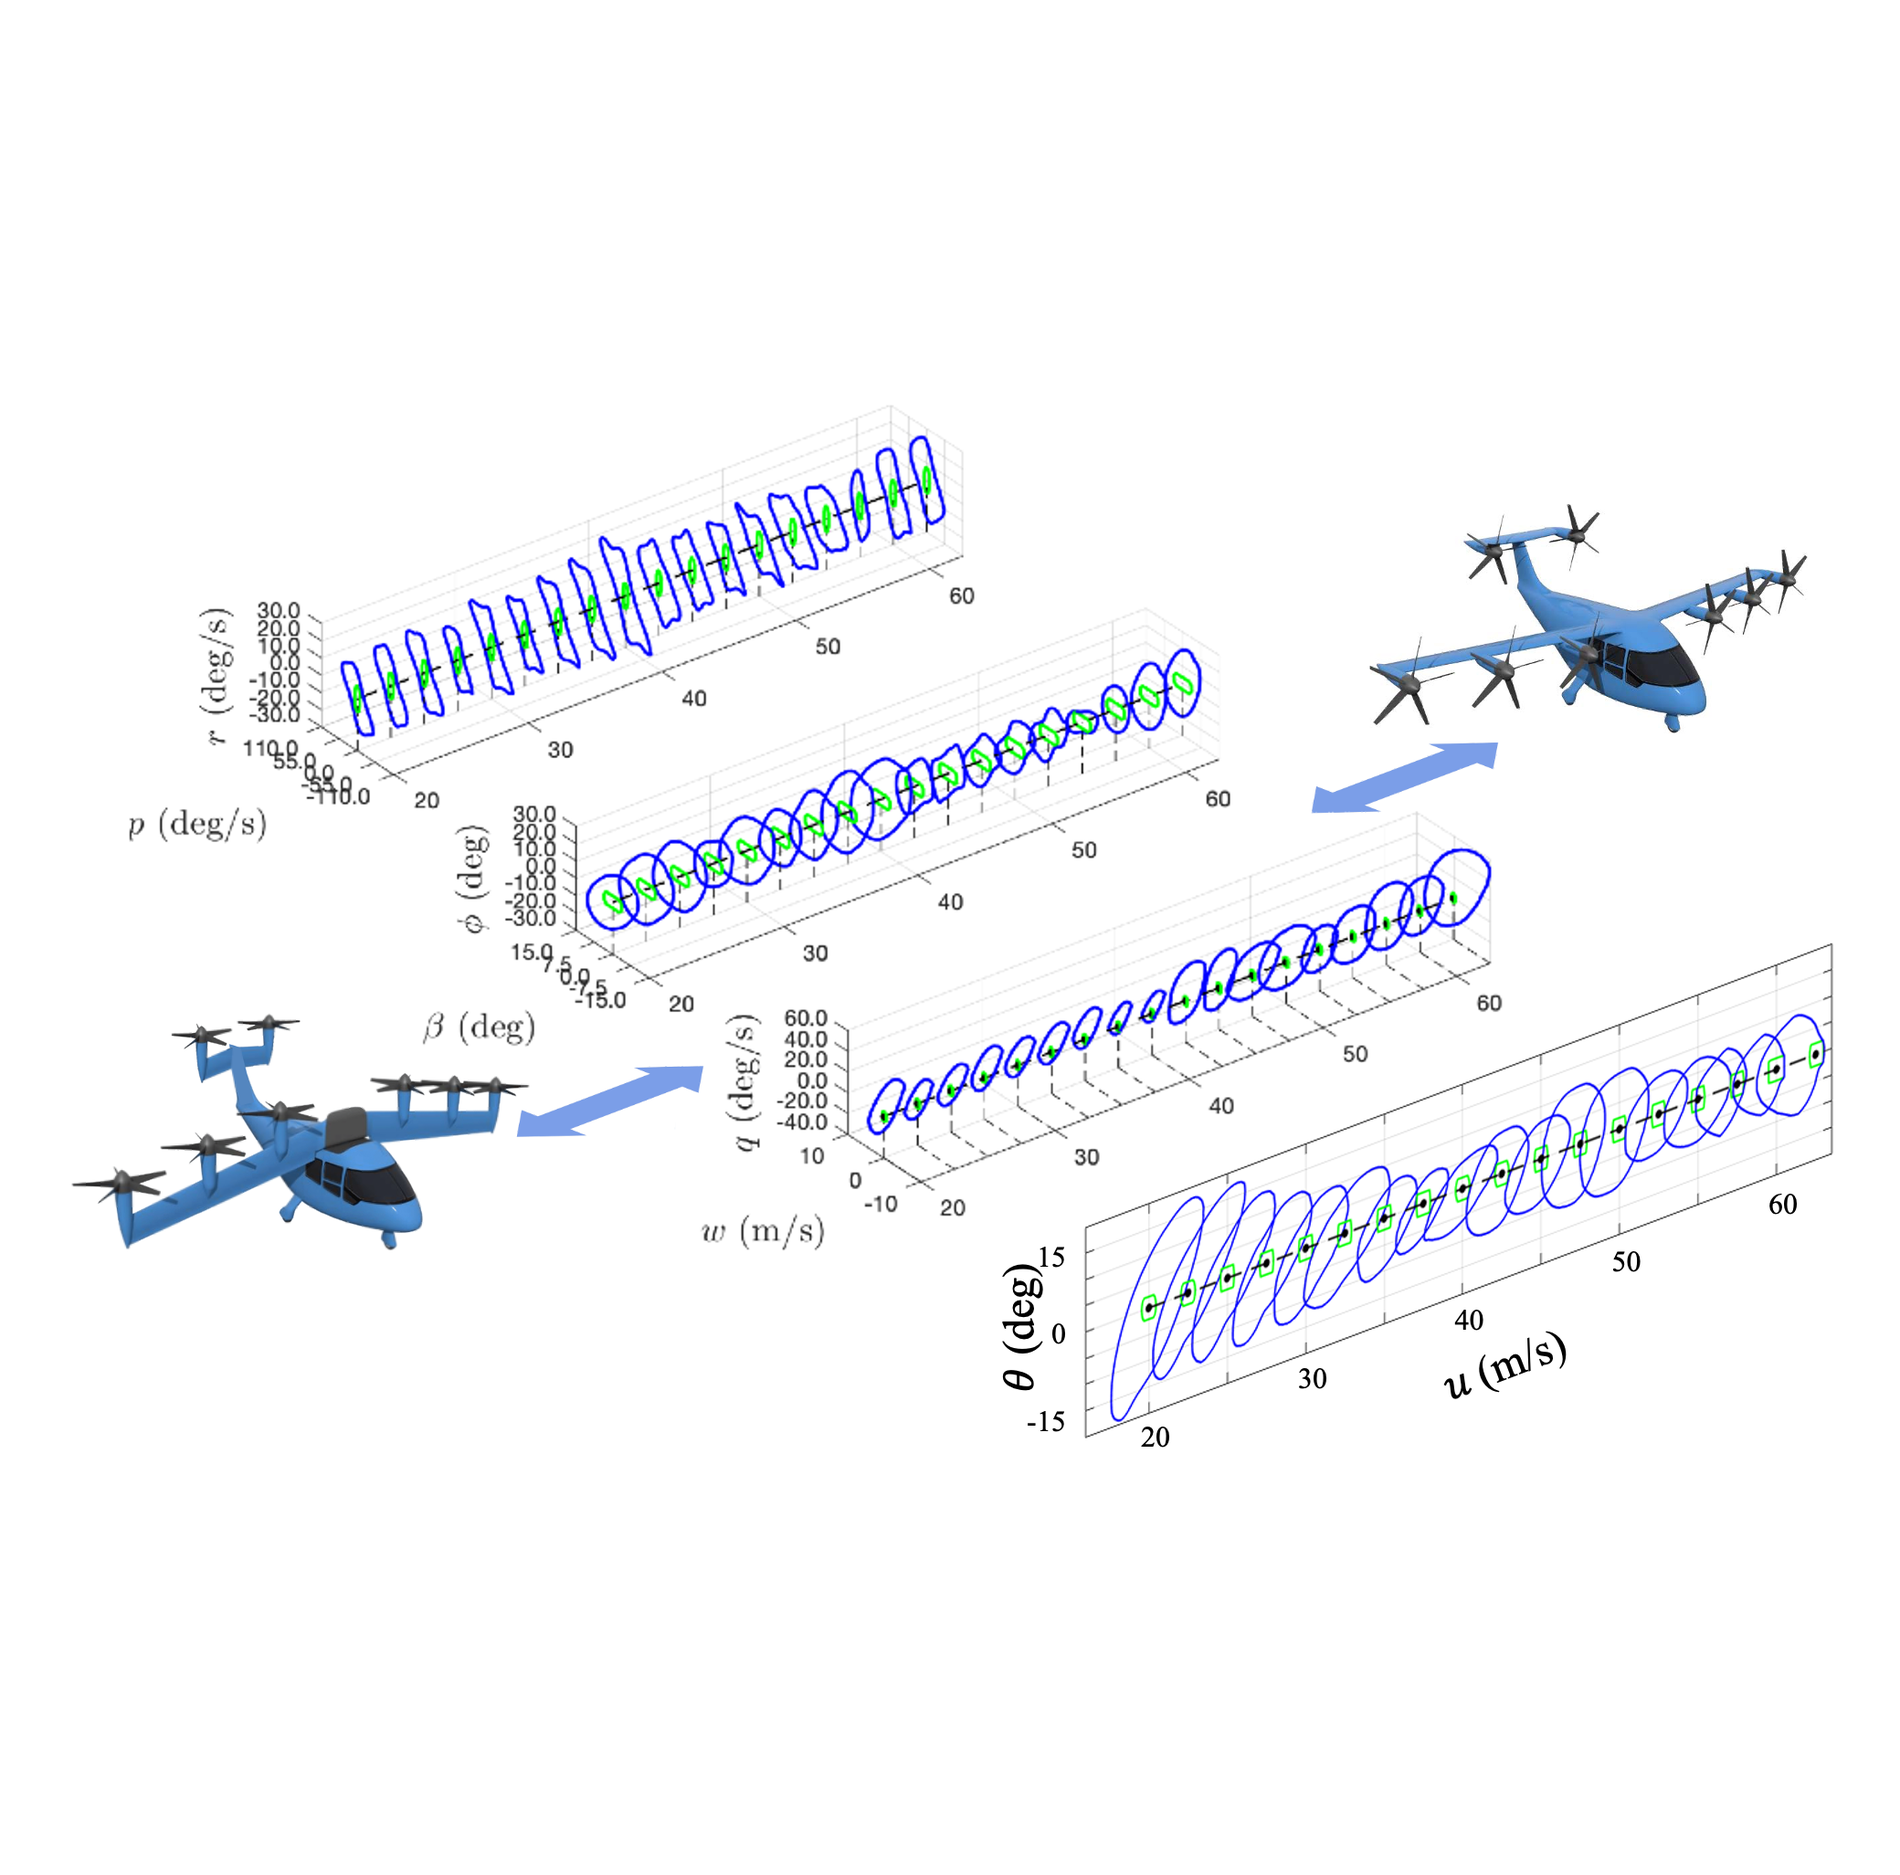
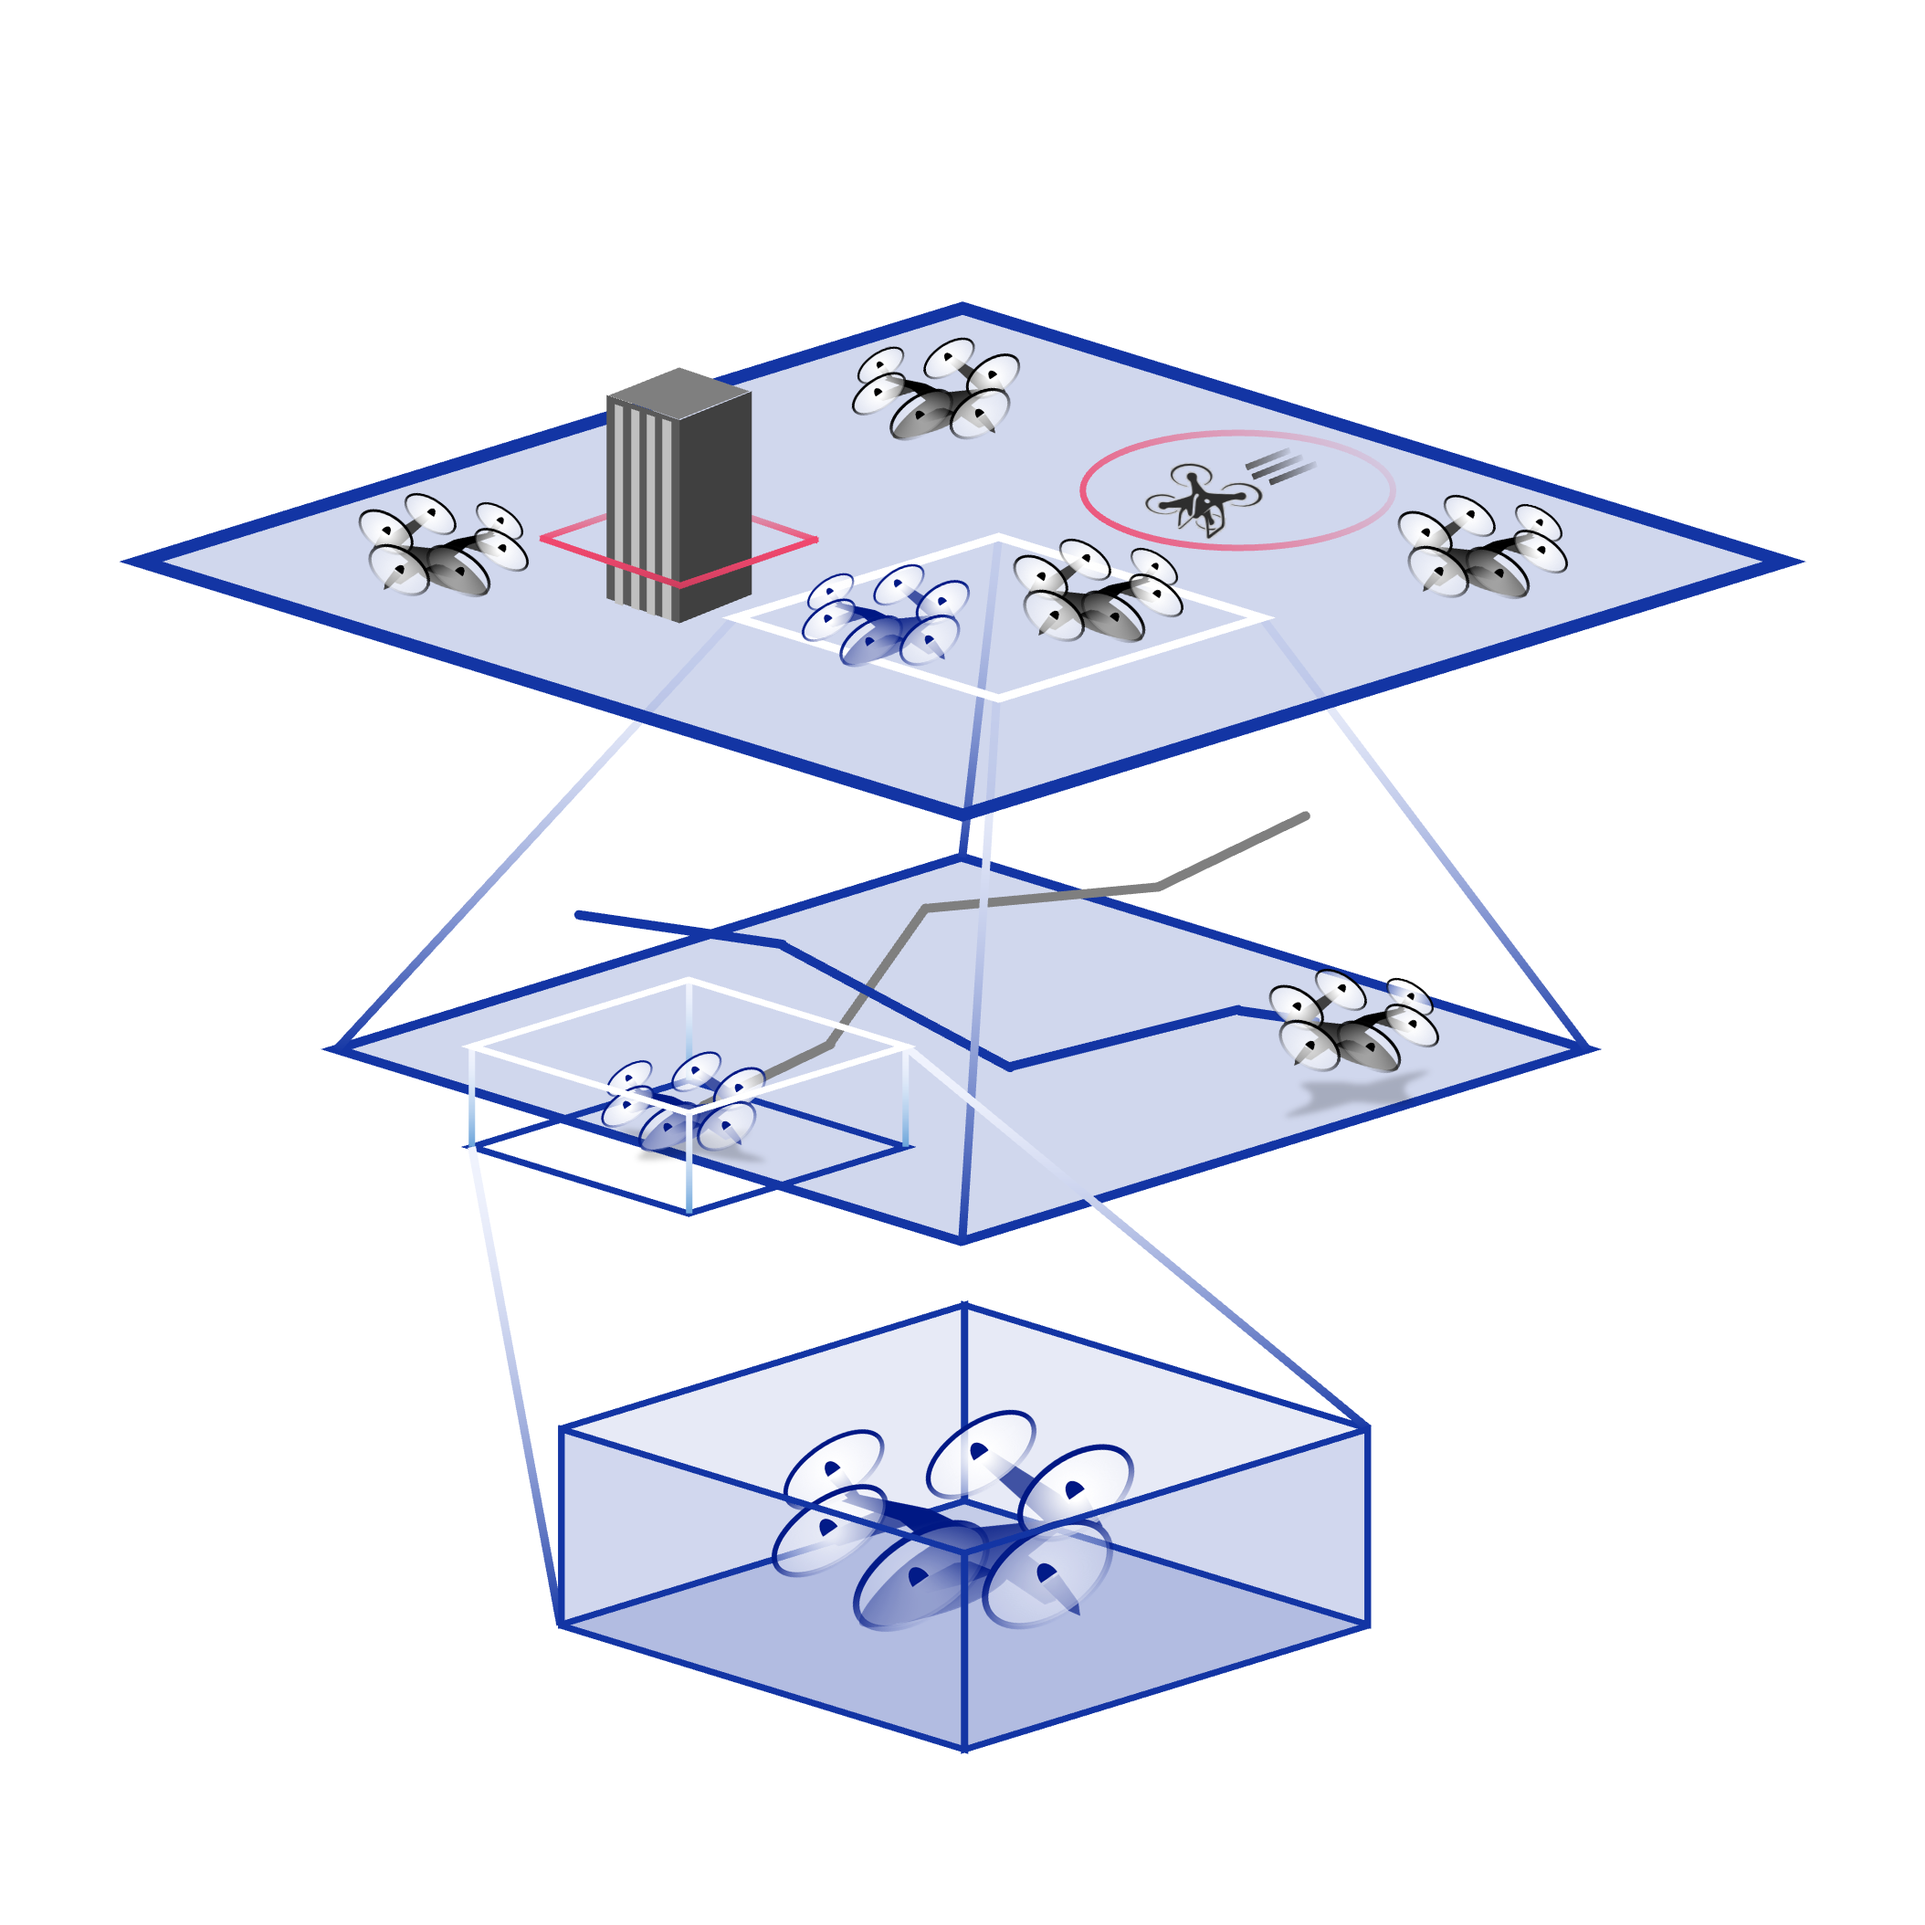
about: update items and images.

diff --git a/_includes/about.html b/_includes/about.html
@@ -16,14 +16,18 @@
                         <img src="img/control_theory.png" alt="Control Theory" class="about-icon">
                     </div>
                     <h4 class="about-heading">Control Theory</h4>
-                    <p class="text-muted">Lorem ipsum dolor sit amet, consectetur adipisicing elit. Minima maxime quam architecto quo inventore harum ex magni, dicta impedit.</p>
+                    <p class="text-muted">We study the mathematical science of decision-making in dynamical systems, with a primary focus on safety guarantees and multi-agent decision-making. 
+                        Core concepts we investigate include nonlinear and hybrid systems theory, reachability analysis, optimal and predictive control, and game theory. 
+                        The analyses we conduct using these theoretical tools form the foundation for the frameworks we develop to advance the intelligence of autonomous machines.</p>
                 </div>
                 <div class="col-md-6">
                     <div class="about-icon-circle">
                         <img src="img/machine_learning.png" alt="Machine Learning & Data Science" class="about-icon">
                     </div>
                     <h4 class="about-heading">Machine Learning & Data Science</h4>
-                    <p class="text-muted">Lorem ipsum dolor sit amet, consectetur adipisicing elit. Minima maxime quam architecto quo inventore harum ex magni, dicta impedit.</p>
+                    <p class="text-muted">Machine learning provides methodologies that are broadly generalizable across diverse platforms and tasks. 
+                        However, despite recent breakthroughs, current approaches still lack solid theoretical foundations, particularly in providing guarantees for safety and principles for multi-agent coordination. 
+                        Our research aims to bridge this gap by developing data-driven methods with rigorous safety and coordination mechanisms.</p>
                 </div>
             </div>
             <div class="row text-center">
@@ -32,14 +36,16 @@
                         <img src="img/robotics.png" alt="Robotics" class="about-icon">
                     </div>
                     <h4 class="about-heading">Robotics</h4>
-                    <p class="text-muted">Lorem ipsum dolor sit amet, consectetur adipisicing elit. Minima maxime quam architecto quo inventore harum ex magni, dicta impedit.</p>
+                    <p class="text-muted">Building on foundations in control-theoretic analysis and data-driven frameworks, we aim to advance robot intelligence with an emphasis on enabling robots to perform complex tasks that go beyond individual capabilities, tasks made possible only through well-coordinated teamwork.</p>
                 </div>
                 <div class="col-md-6">
                     <div class="about-icon-circle">
                         <img src="img/aam.png" alt="Advanced Aviation" class="about-icon">
                     </div>
                     <h4 class="about-heading">Advanced Aviation</h4>
-                    <p class="text-muted">Lorem ipsum dolor sit amet, consectetur adipisicing elit. Minima maxime quam architecto quo inventore harum ex magni, dicta impedit.</p>
+                    <p class="text-muted">Innovations in aviation autonomy are enabling new forms of operation, such as on-demand air taxi services and autonomous delivery. 
+                        However, these concepts introduce significant challenges, including high-density air traffic, fluctuating demand, complex urban landscapes, and uncertain weather—each posing critical safety risks. 
+                        Our research focuses on designing robust architectures for advanced air mobility, working bottom-up from vehicle-level intelligence and top-down from effective operational decision-making.</p>
                 </div>
             </div>
         </div>

diff --git a/_includes/css/agency.css b/_includes/css/agency.css
@@ -358,7 +358,7 @@ section h3.section-subheading {
     max-width: 400px;
     height: 90%;
     max-height: 400px;
-    margin: 0 auto 25px;
+    margin: 20px auto 20px;
     border: 2px solid #fed136;
     border-radius: 100%;
     text-align: center;
